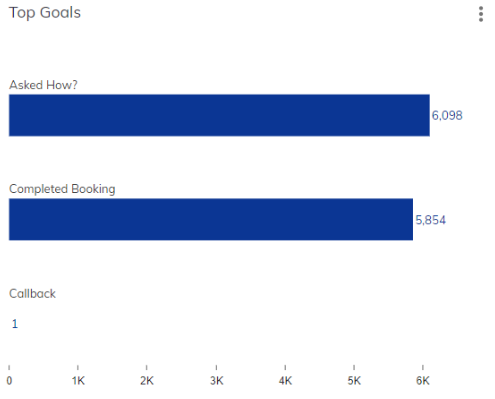
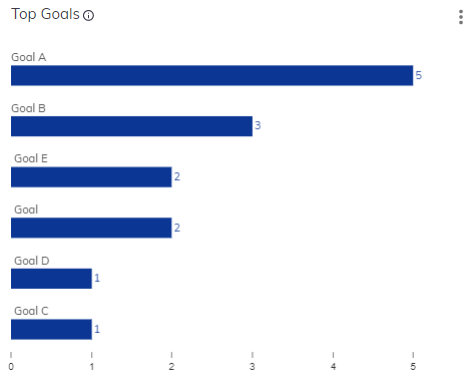
improved Top Goals

diff --git a/docs/en/docs/insights/dashboard-engagement.md b/docs/en/docs/insights/dashboard-engagement.md
@@ -14,14 +14,12 @@ The Engagement Dashboard is focused on customer interactions in conversations. E
 
 Each chart presents real-time data that refreshes every 30 seconds.
 
+All data displayed in the charts relate to the [global filter](global-filter.md) settings.
+
 <figure>
   <img class="image-center" src="{{config.site_url}}insights/images/engagement-dashboard.png" width="100%" />
   <figcaption>Engagement dashboard</figcaption>
 </figure>
-
-The currently displayed dashboard can be seen next to the Agent in the top left of the screen.
-
-All data displayed in the charts relate to the [global filter](global-filter.md) settings.
 
 ## Indicators
 
@@ -77,7 +75,7 @@ Indicates the total number of Positive Ratings given as feedback by the end user
 Source table:
 
 ```txt
-| Sessions    | Positive Rating | Negative Rating | Rated Sessions |             
+| Sessions    | Positive Rating | Negative Rating | Rated Sessions |
 | ----------- | --------------- | --------------- | -------------- |
 | session-123 |        1        |        0        |       1        |
 | session-456 |        0        |        1        |       1        |
@@ -156,6 +154,20 @@ A horizontal bar chart displaying the top-rated number of goals reached.
 
 Clicking on the three dots menu item, you can select the **Go to Step Explorer** that leads you to the application in Cognigy.AI to improve your Agent.
 
+Source table:
+
+```txt 
+| Sessions    | Goals                  |
+| ----------- | ---------------------- |
+| session-123 | Goal A, Goal B, Goal D |
+| session-456 | Goal B, Goal C, Goal E |
+| session-789 | Goal A, Goal B, Goal E |
+| session-abc | Goal A                 |
+| session-def | Goal, Goal A           |
+| session-ghi | Goal, Goal A           |
+```
+
+Result:
 
 <figure>
   <img class="image-center" src="{{config.site_url}}insights/images/top-goals.png" width="80%" />
@@ -212,7 +224,7 @@ Source table:
 Result:
 
 <figure>
-  <img class="image-center" src="{{config.site_url}}insights/images/positive-ratings.png" width="100%" />
+  <img class="image-center" src="{{config.site_url}}insights/images/positive-ratings.png" width="80%" />
 </figure>
 
 ### Contacts
@@ -250,8 +262,6 @@ To create a report file, see the [Download Report](download-report.md) article.
 
 
 ## More information
-
-- [Cognigy Insights](cognigy-insights.md)
 
 - [Global Filter](global-filter.md)
 
